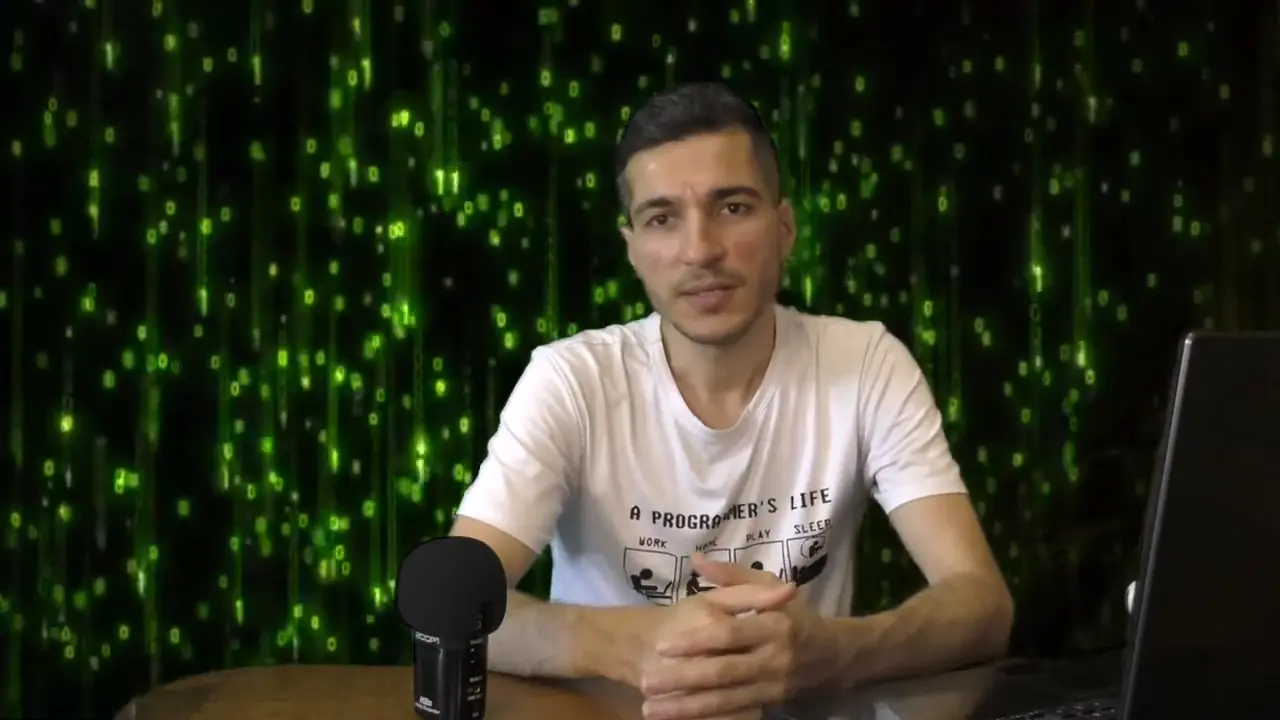
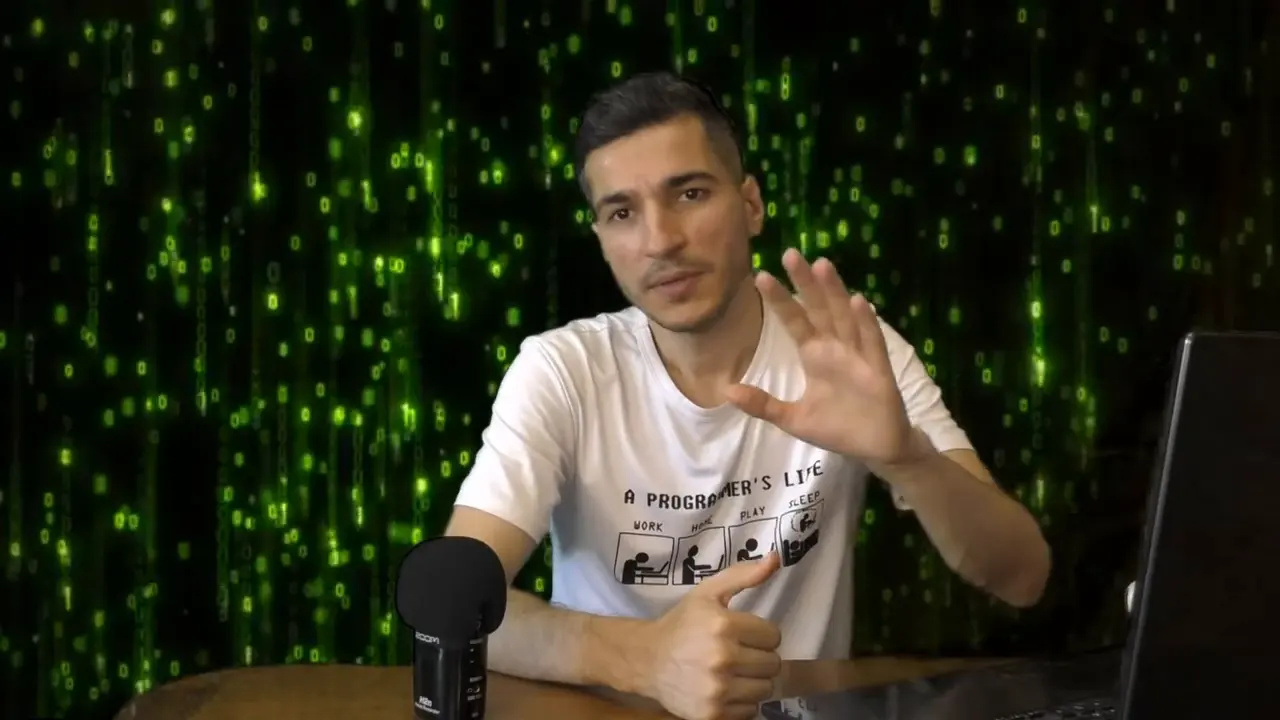
New video cover (gesture frame at ~1.5s), move play button off the face
Claude-Session: https://claude.ai/code/session_01PSDLkJyTt2vBehh2rTffgp

diff --git a/index.html b/index.html
@@ -230,7 +230,7 @@ h2{font:600 clamp(40px,5.6vw,80px)/.95 var(--display);text-transform:uppercase;l
 .yt img{width:100%;height:100%;object-fit:cover;opacity:0;transition:scale 1s var(--ease),filter .6s,opacity .6s}
 .yt img.ok{opacity:1}
 .yt:hover img{scale:1.04;filter:brightness(.85)}
-.play{position:absolute;left:50%;top:50%;width:92px;height:92px;margin:-46px 0 0 -46px;border-radius:50%;background:var(--g);display:grid;place-items:center;box-shadow:0 0 0 12px rgba(61,220,110,.2),0 0 50px rgba(61,220,110,.6);transition:scale .9s var(--spring)}
+.play{position:absolute;left:24%;top:68%;width:92px;height:92px;margin:-46px 0 0 -46px;border-radius:50%;background:var(--g);display:grid;place-items:center;box-shadow:0 0 0 12px rgba(61,220,110,.2),0 0 50px rgba(61,220,110,.6);transition:scale .9s var(--spring)}
 .play::after{content:'';margin-left:7px;border-style:solid;border-width:16px 0 16px 26px;border-color:transparent transparent transparent #032010}
 .yt:hover .play{scale:1.14}
 .vid-note{position:absolute;left:0;right:0;bottom:0;padding:10px 16px;font-size:13px;background:rgba(3,11,6,.8);color:var(--muted);text-align:center;display:none}
@@ -397,7 +397,7 @@ html[data-theme="light"] .theme-btn .i-moon{translate:0 -140%;rotate:90deg;opaci
   .card-xl{grid-column:auto}
   .card{min-height:0;padding:26px}
   .facts{grid-template-columns:1fr}
-  .play{width:70px;height:70px;margin:-35px 0 0 -35px}
+  .play{width:56px;height:56px;margin:-28px 0 0 -28px;left:17%;top:60%;box-shadow:0 0 0 8px rgba(61,220,110,.2),0 0 30px rgba(61,220,110,.55)}
   .play::after{border-width:12px 0 12px 20px;margin-left:5px}
   .glass{-webkit-backdrop-filter:blur(16px) saturate(160%);backdrop-filter:blur(16px) saturate(160%)}
 }
@@ -561,7 +561,7 @@ html[data-theme="light"] .theme-btn .i-moon{translate:0 -140%;rotate:90deg;opaci
       <div class="vid glass reveal" style="--d:100ms">
         <div class="vid-in">
           <button class="yt" type="button" data-id="J3VURZjh0a8" data-mp4="video/sergey.mp4 sergey.mp4" aria-label="Смотреть видео: Сергей рассказывает о своей работе">
-            <img src="video/poster.webp" data-alt="poster.webp" alt="" width="1280" height="720" loading="lazy" decoding="async">
+            <img src="video/poster.webp?v=2" data-alt="poster.webp?v=2" alt="" width="1280" height="720" loading="lazy" decoding="async">
             <span class="play" aria-hidden="true"></span>
           </button>
           <p class="vid-note" id="vidNote">Видео открылось в новой вкладке. Чтобы оно играло прямо на сайте, запустите сайт через localhost (см. README).</p>
